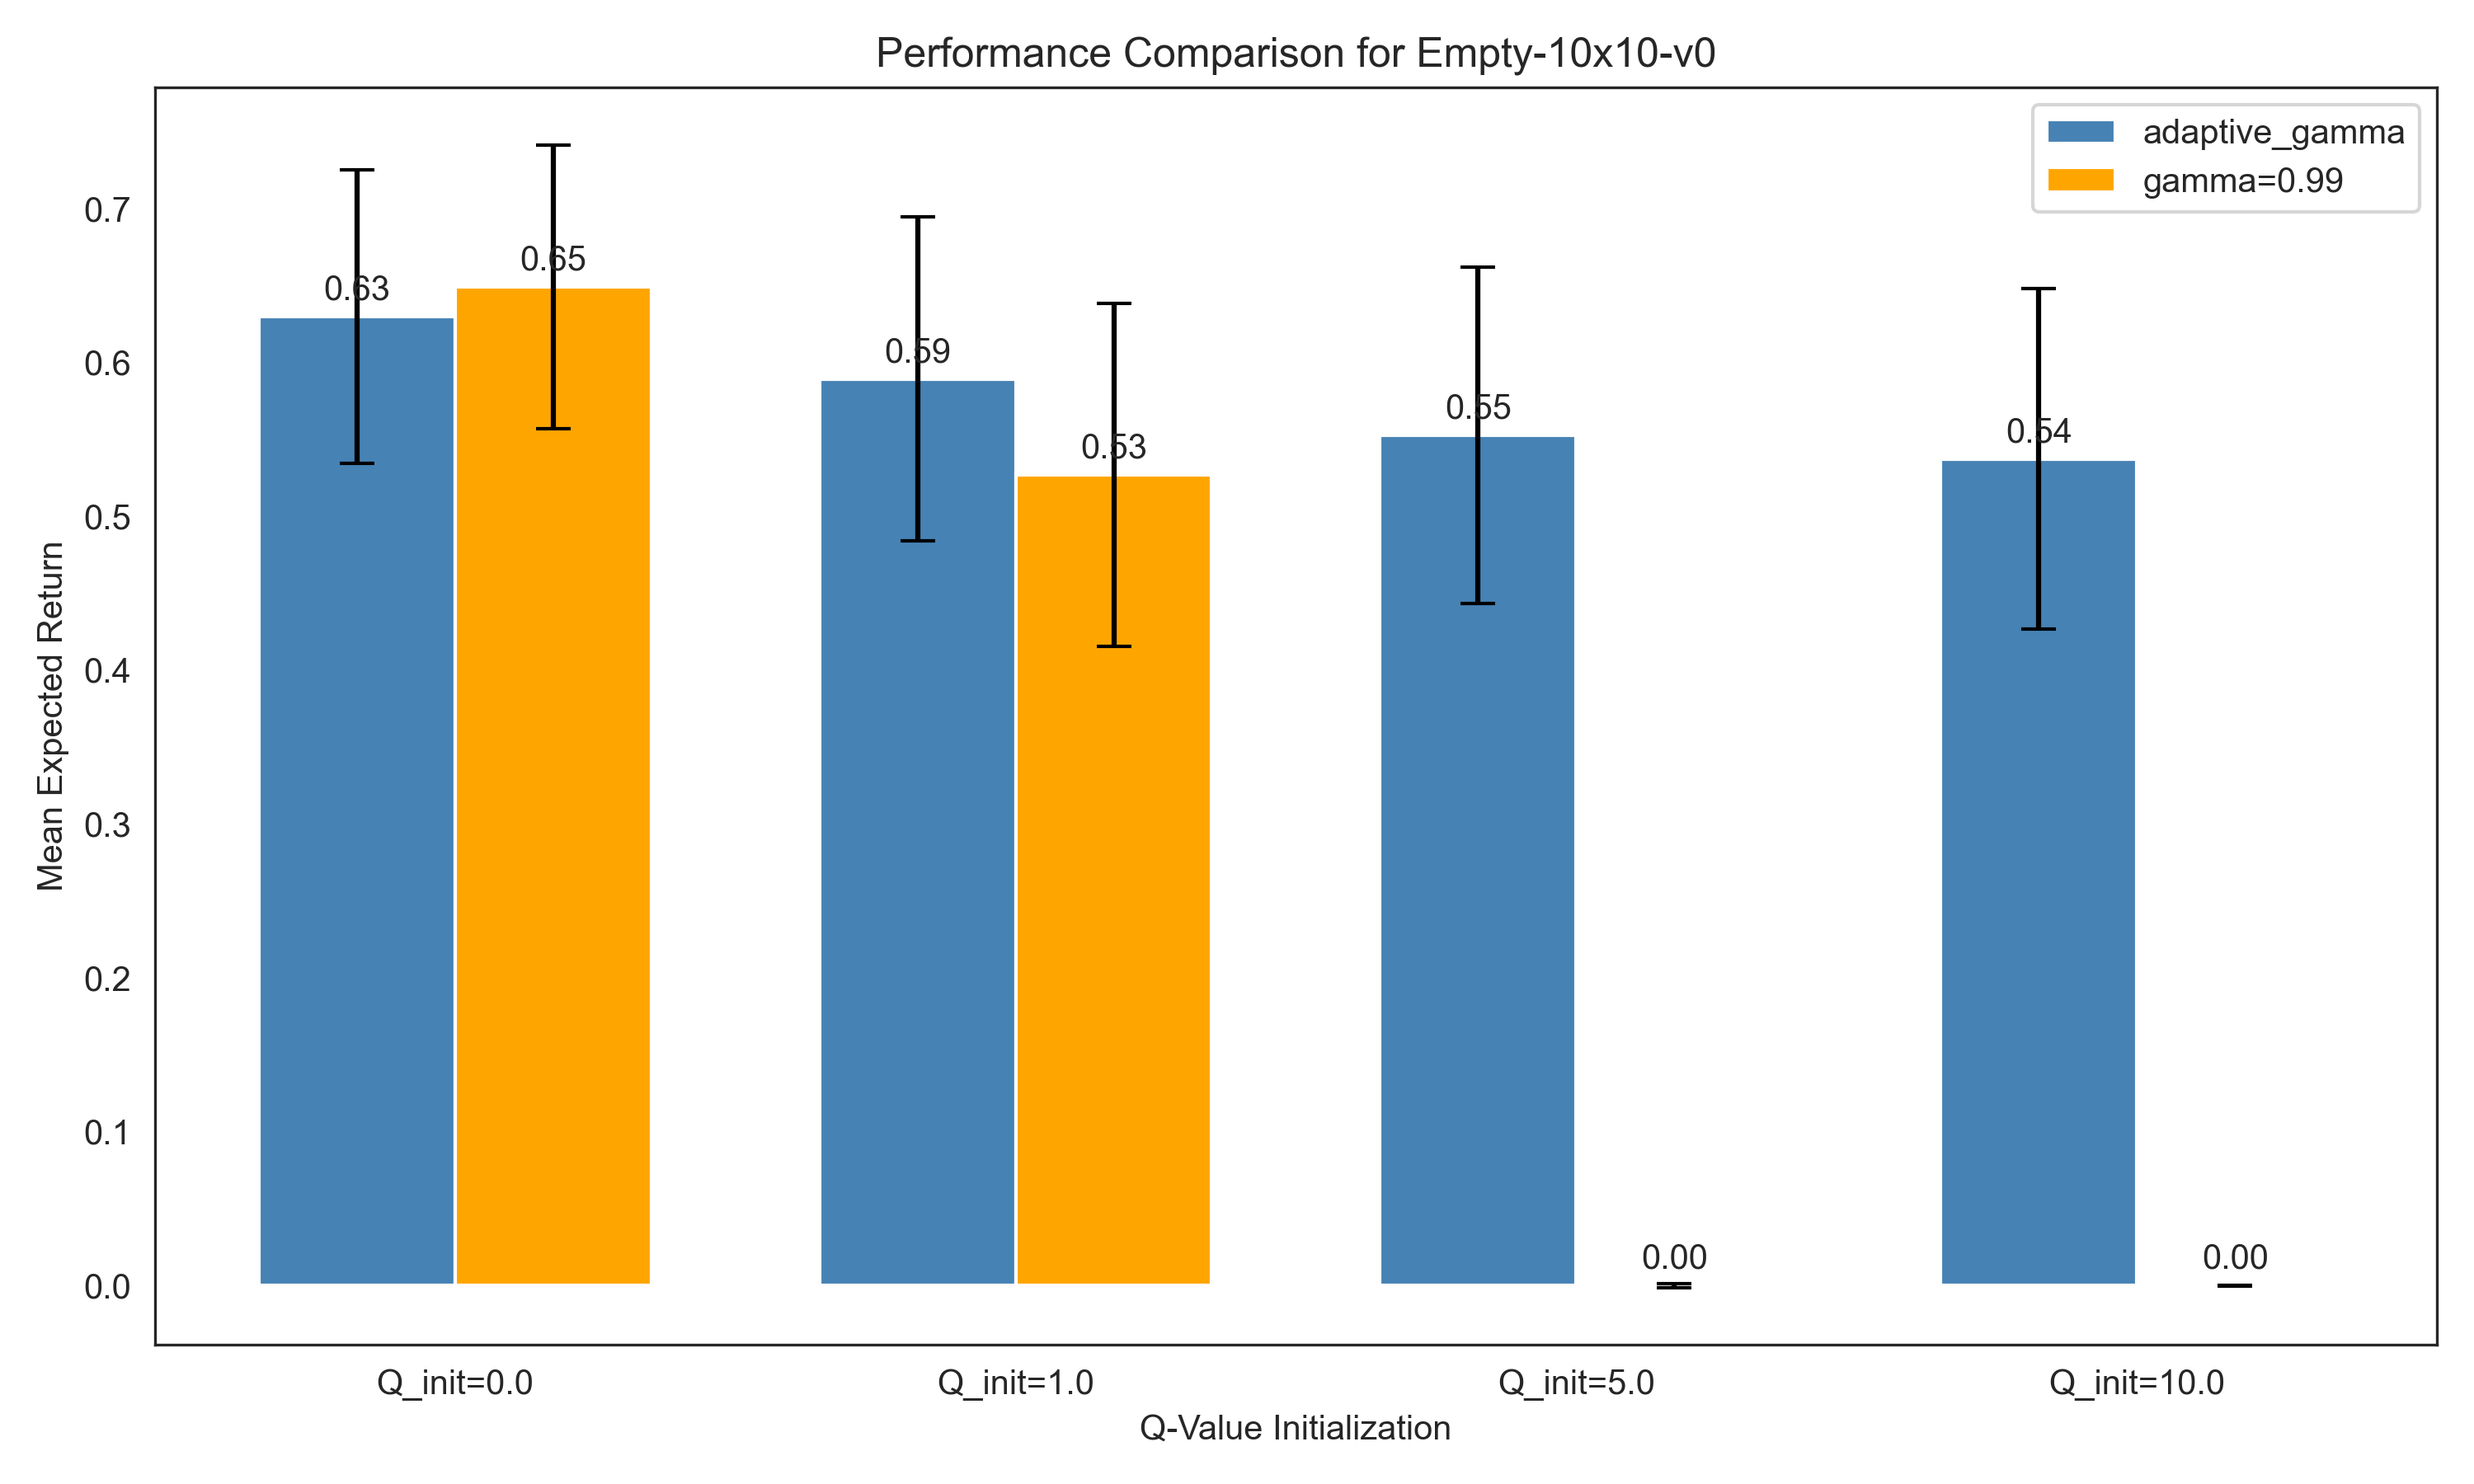
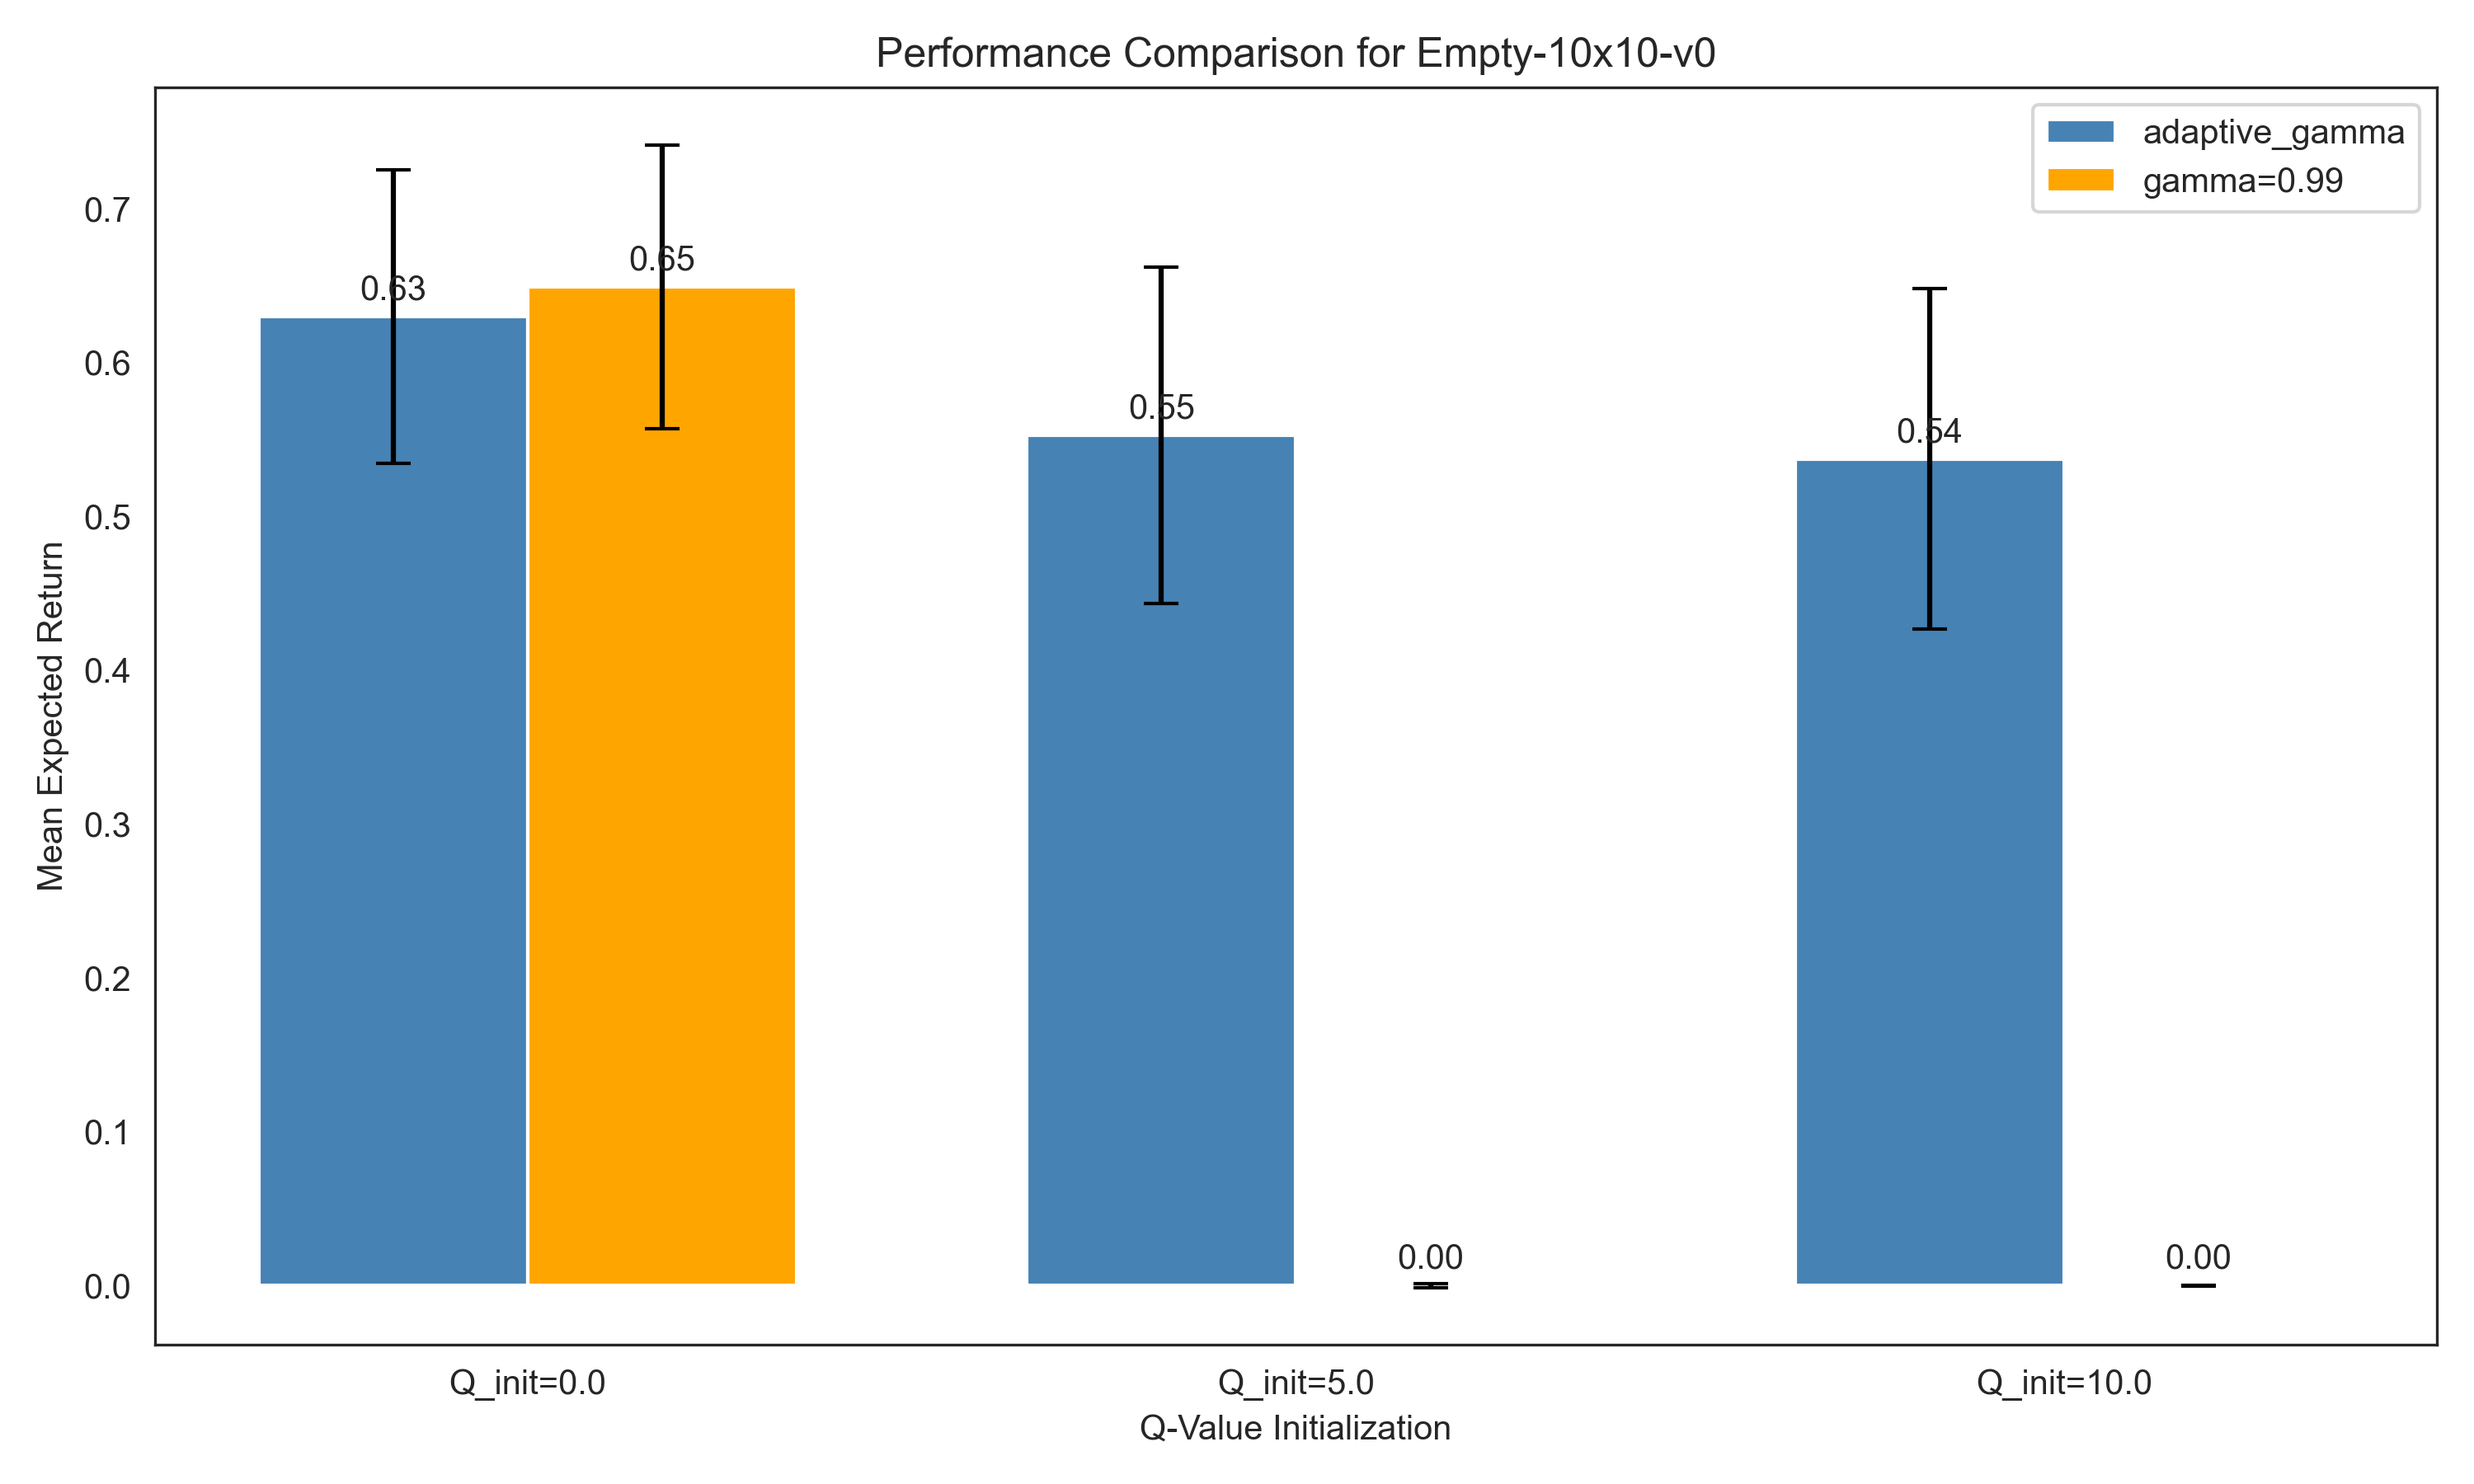
results added

diff --git a/experiments/results/q-learning/bar-plot.py b/experiments/results/q-learning/bar-plot.py
@@ -92,7 +92,7 @@ def bar_plot_comparison(environments, q_inits, alphas, save_dir_na, save_dir_a, 
             plt.close(fig)
 
 environments = ["Empty-10x10-v0", "Empty-Distract-6x6-v0", "Penalty-3x3-v0", "Quicksand-4x4-v0", "Quicksand-Distract-4x4-v0", "TwoRoom-Quicksand-3x5-v0", "Full-4x5-v0", "TwoRoom-Distract-Middle-2x11-v0", "Barrier-5x5-v0"]
-q_inits = [0.0, 1.0, 5.0, 10.0]
+q_inits = [0.0, 5.0, 10.0]
 alphas = [0.5]
 save_dir_na = "results2/q_learning/non_adaptive/Gym-Gridworlds"
 save_dir_a = "results2/q_learning/adaptive_0.5/Gym-Gridworlds"
